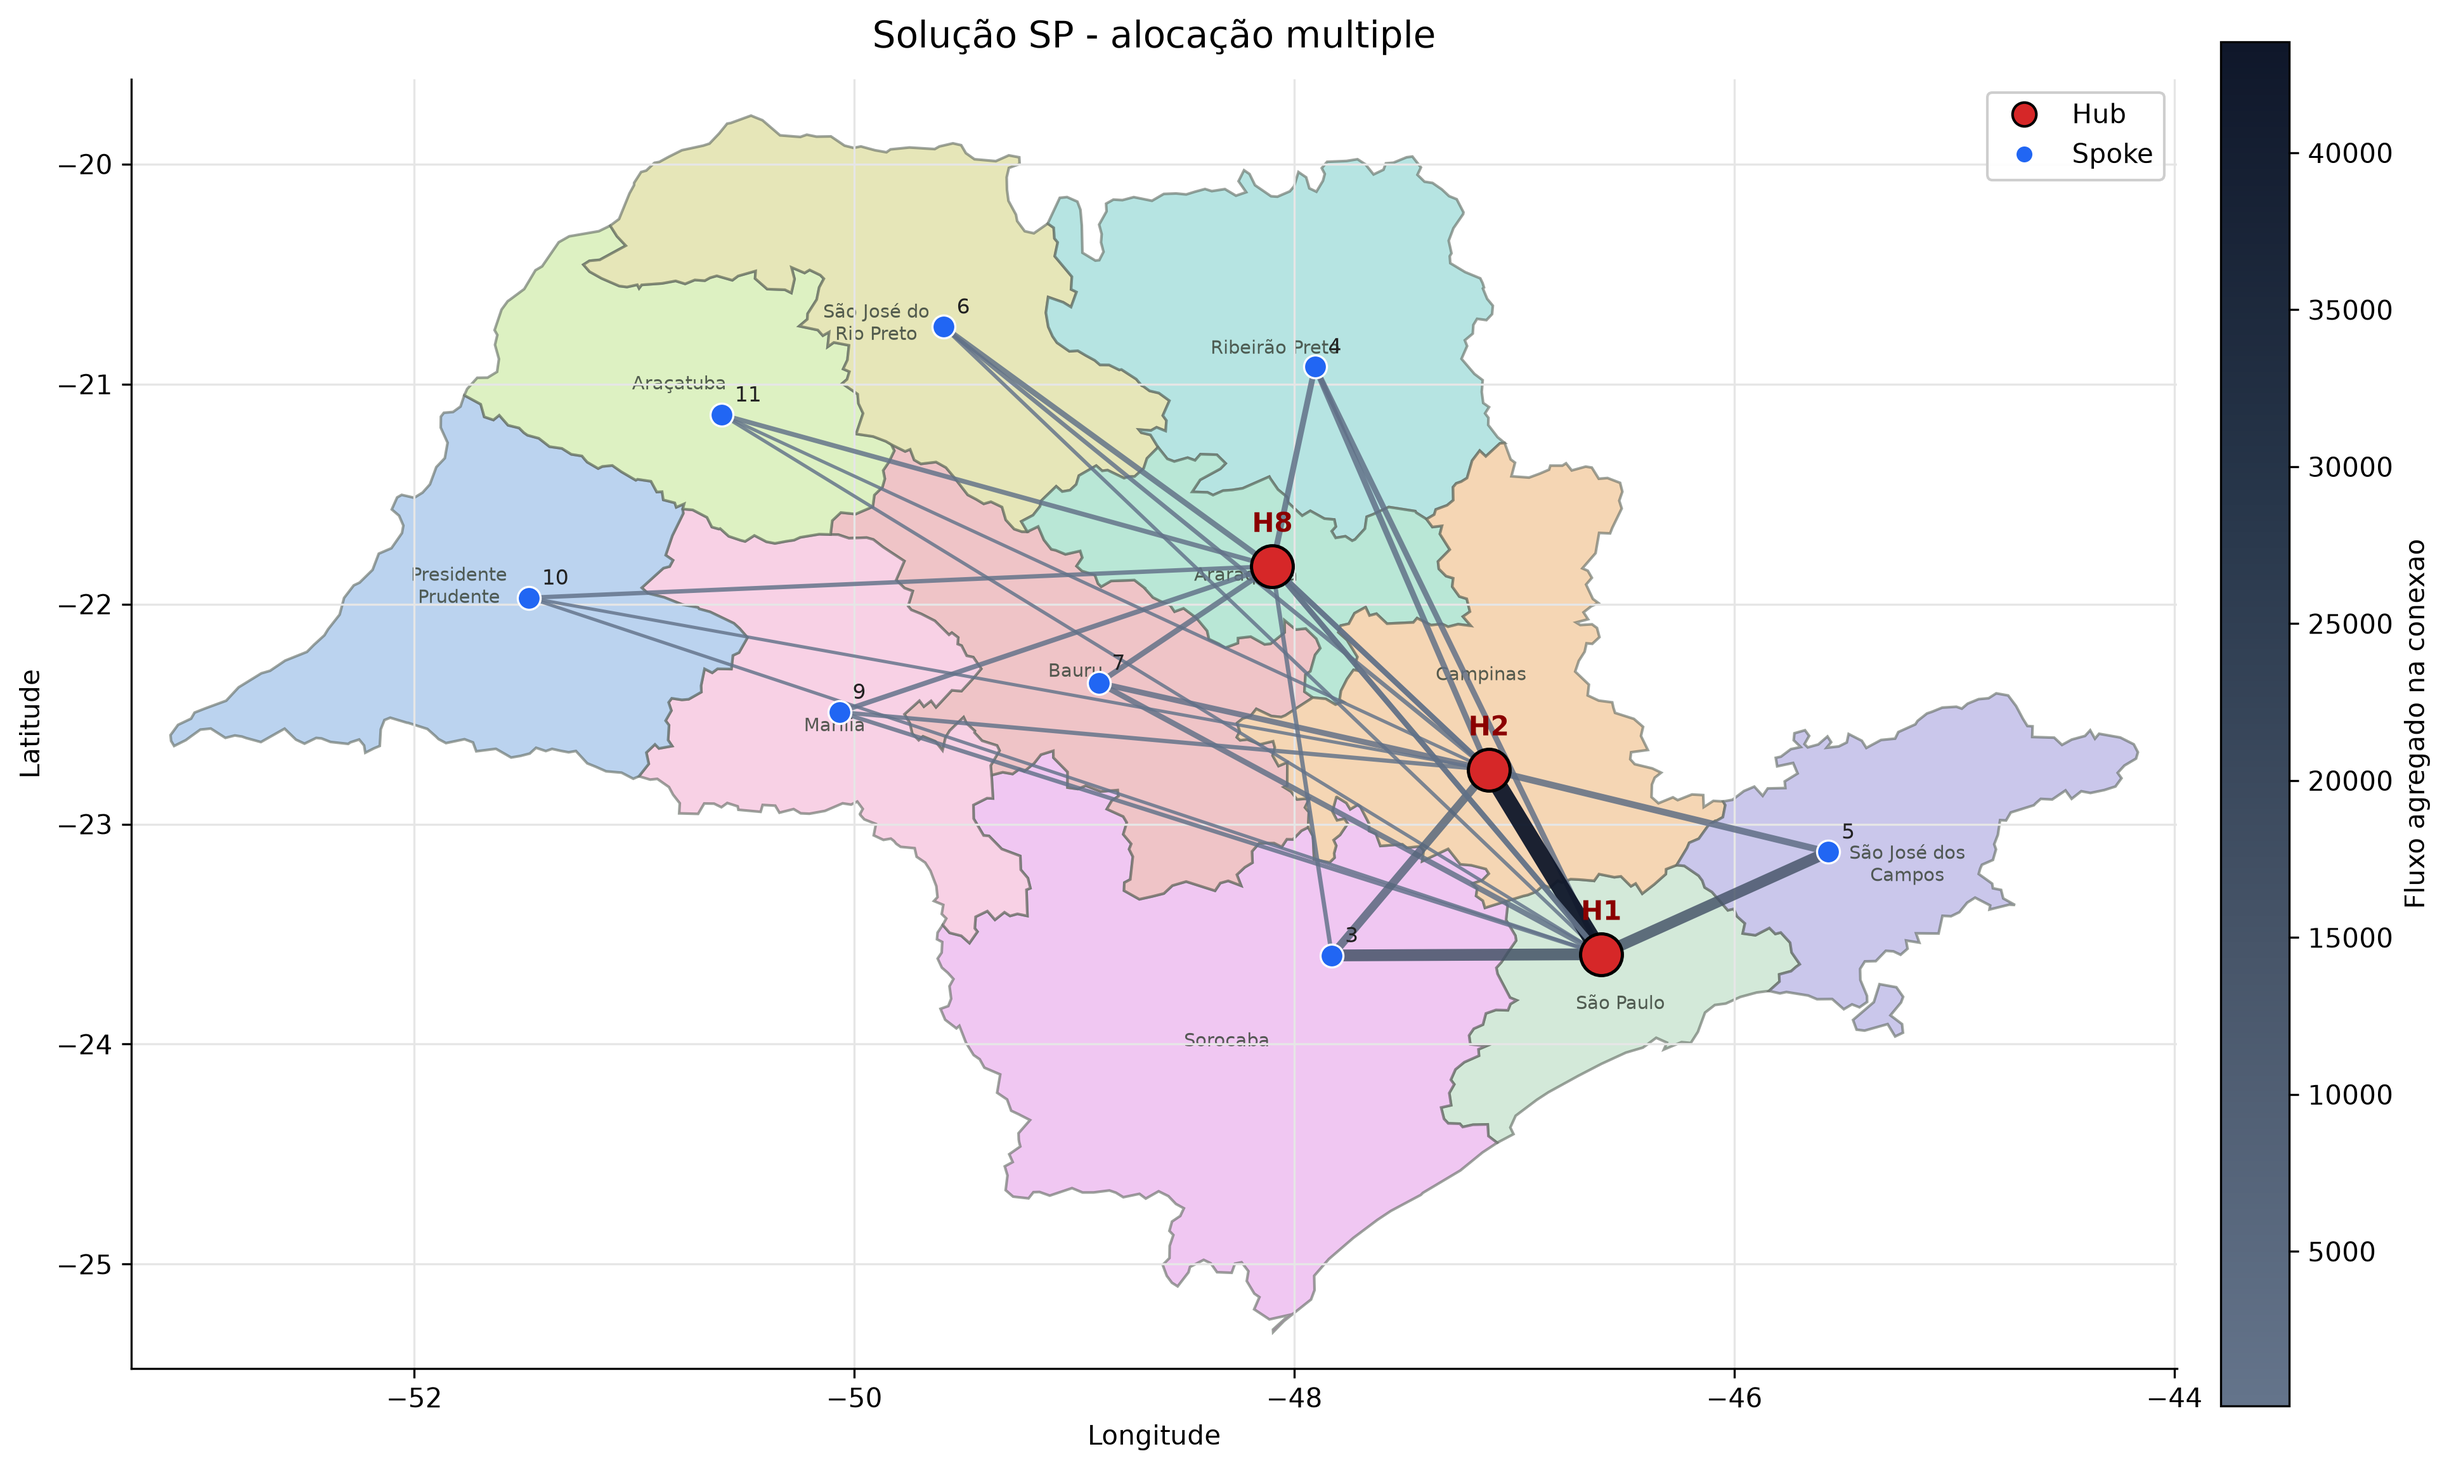
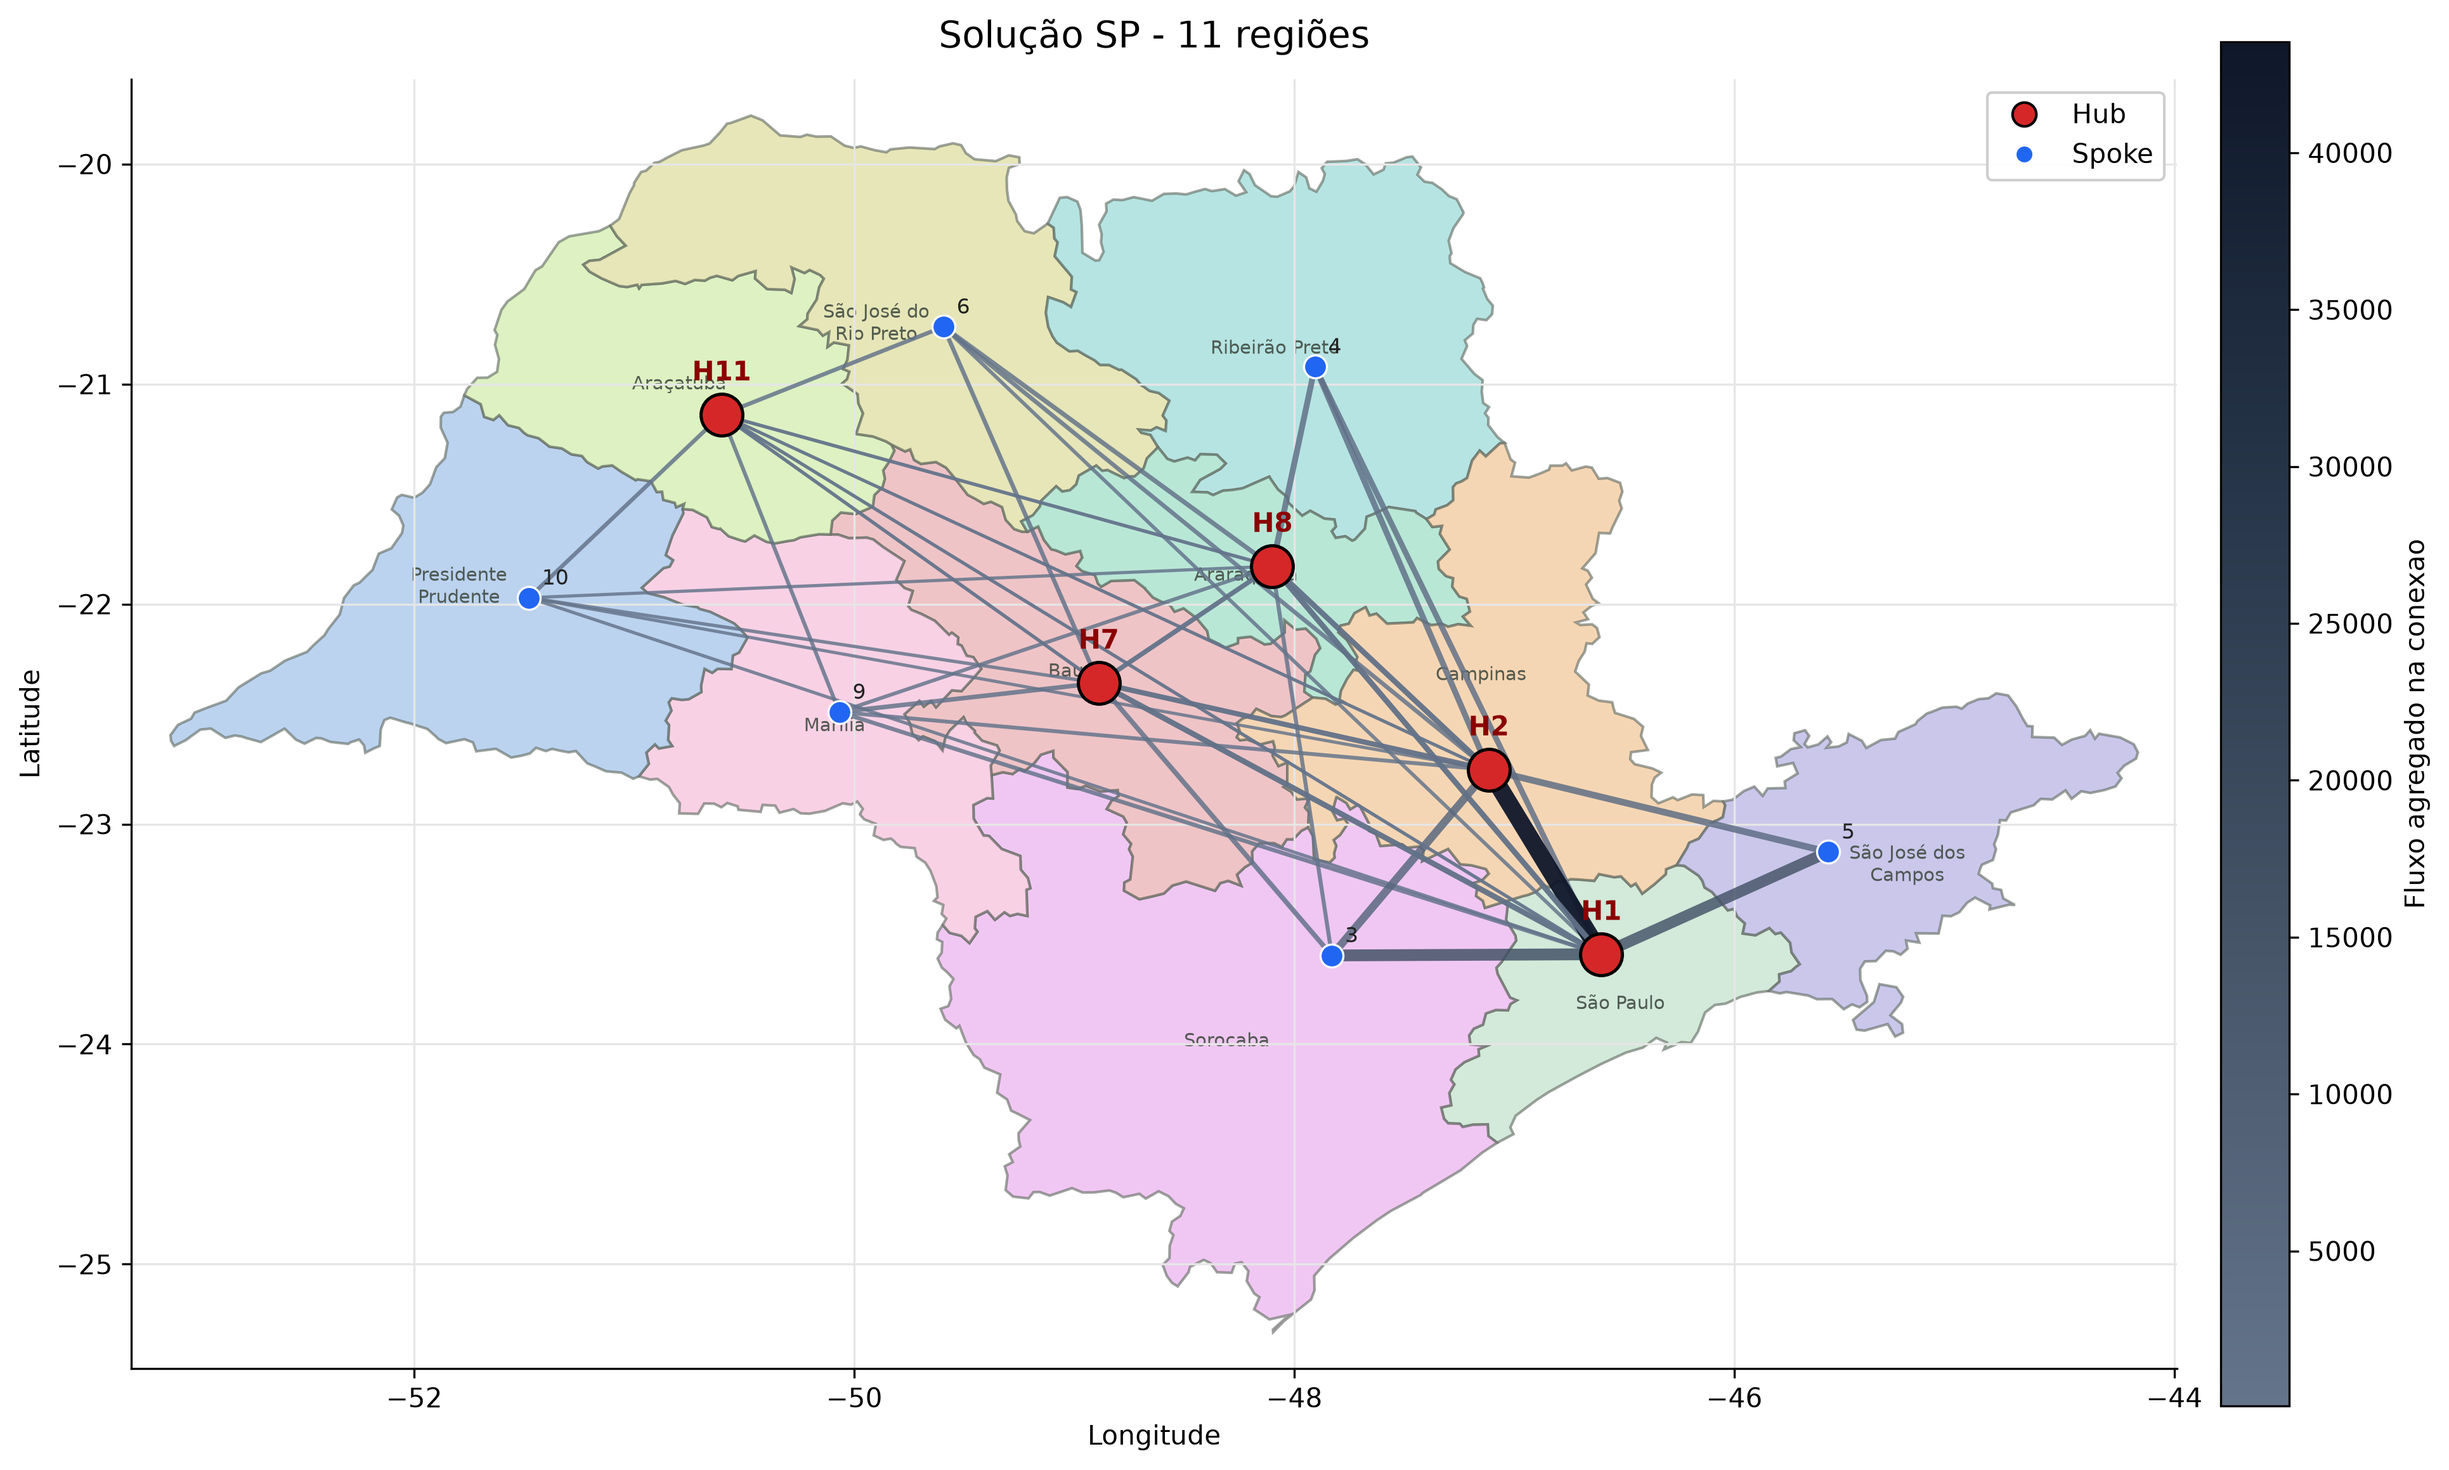
Ajuste título da imagem

diff --git a/app_streamlit.py b/app_streamlit.py
@@ -251,7 +251,7 @@ def run_model(model_name, instance, n_limit, override_p, c_hub, alpha, time_limi
                     selected_hubs=selected_hubs,
                     selected_routes=selected_routes,
                     output_path=str(image_path),
-                    title=f"Solução SP - alocação {model_name}",
+                    title="Solução SP - 11 regiões",
                 )
 
         objective = None
